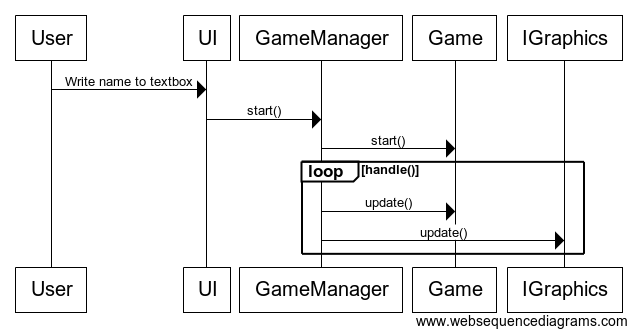
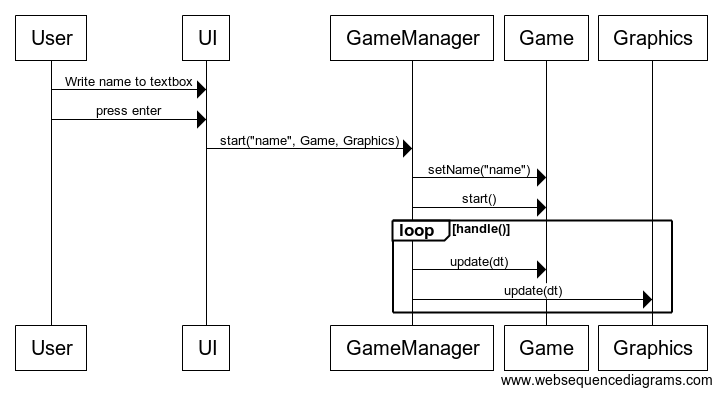
update

Changed region(s): [[0.0, 0.0298, 0.9858, 0.9821], [0.6871, 0.1786, 0.717, 0.2083], [0.478, 0.1786, 0.5079, 0.2083]]

diff --git a/Tetris/src/main/java/com/jarnoluu/tetris/domain/GameManager.java b/Tetris/src/main/java/com/jarnoluu/tetris/domain/GameManager.java
@@ -8,7 +8,9 @@ public class GameManager extends AnimationTimer {
     private IGraphics graphics;
     private long lastFrameTime;
     
-    public void start(Game game, IGraphics graphics) {
+    public void start(String name, Game game, IGraphics graphics) {
+        game.setName(name);
+        
         this.game = game;
         this.graphics = graphics;
         

diff --git a/Tetris/src/main/java/com/jarnoluu/tetris/ui/TetrisApplication.java b/Tetris/src/main/java/com/jarnoluu/tetris/ui/TetrisApplication.java
@@ -34,8 +34,7 @@ public class TetrisApplication extends Application {
     }
     
     private void startGame(String name) {
-        this.game.setName(name);
-        this.gm.start(this.game, this.graphics);
+        this.gm.start(name, this.game, this.graphics);
 
         this.vbox.setVisible(false);
     }
